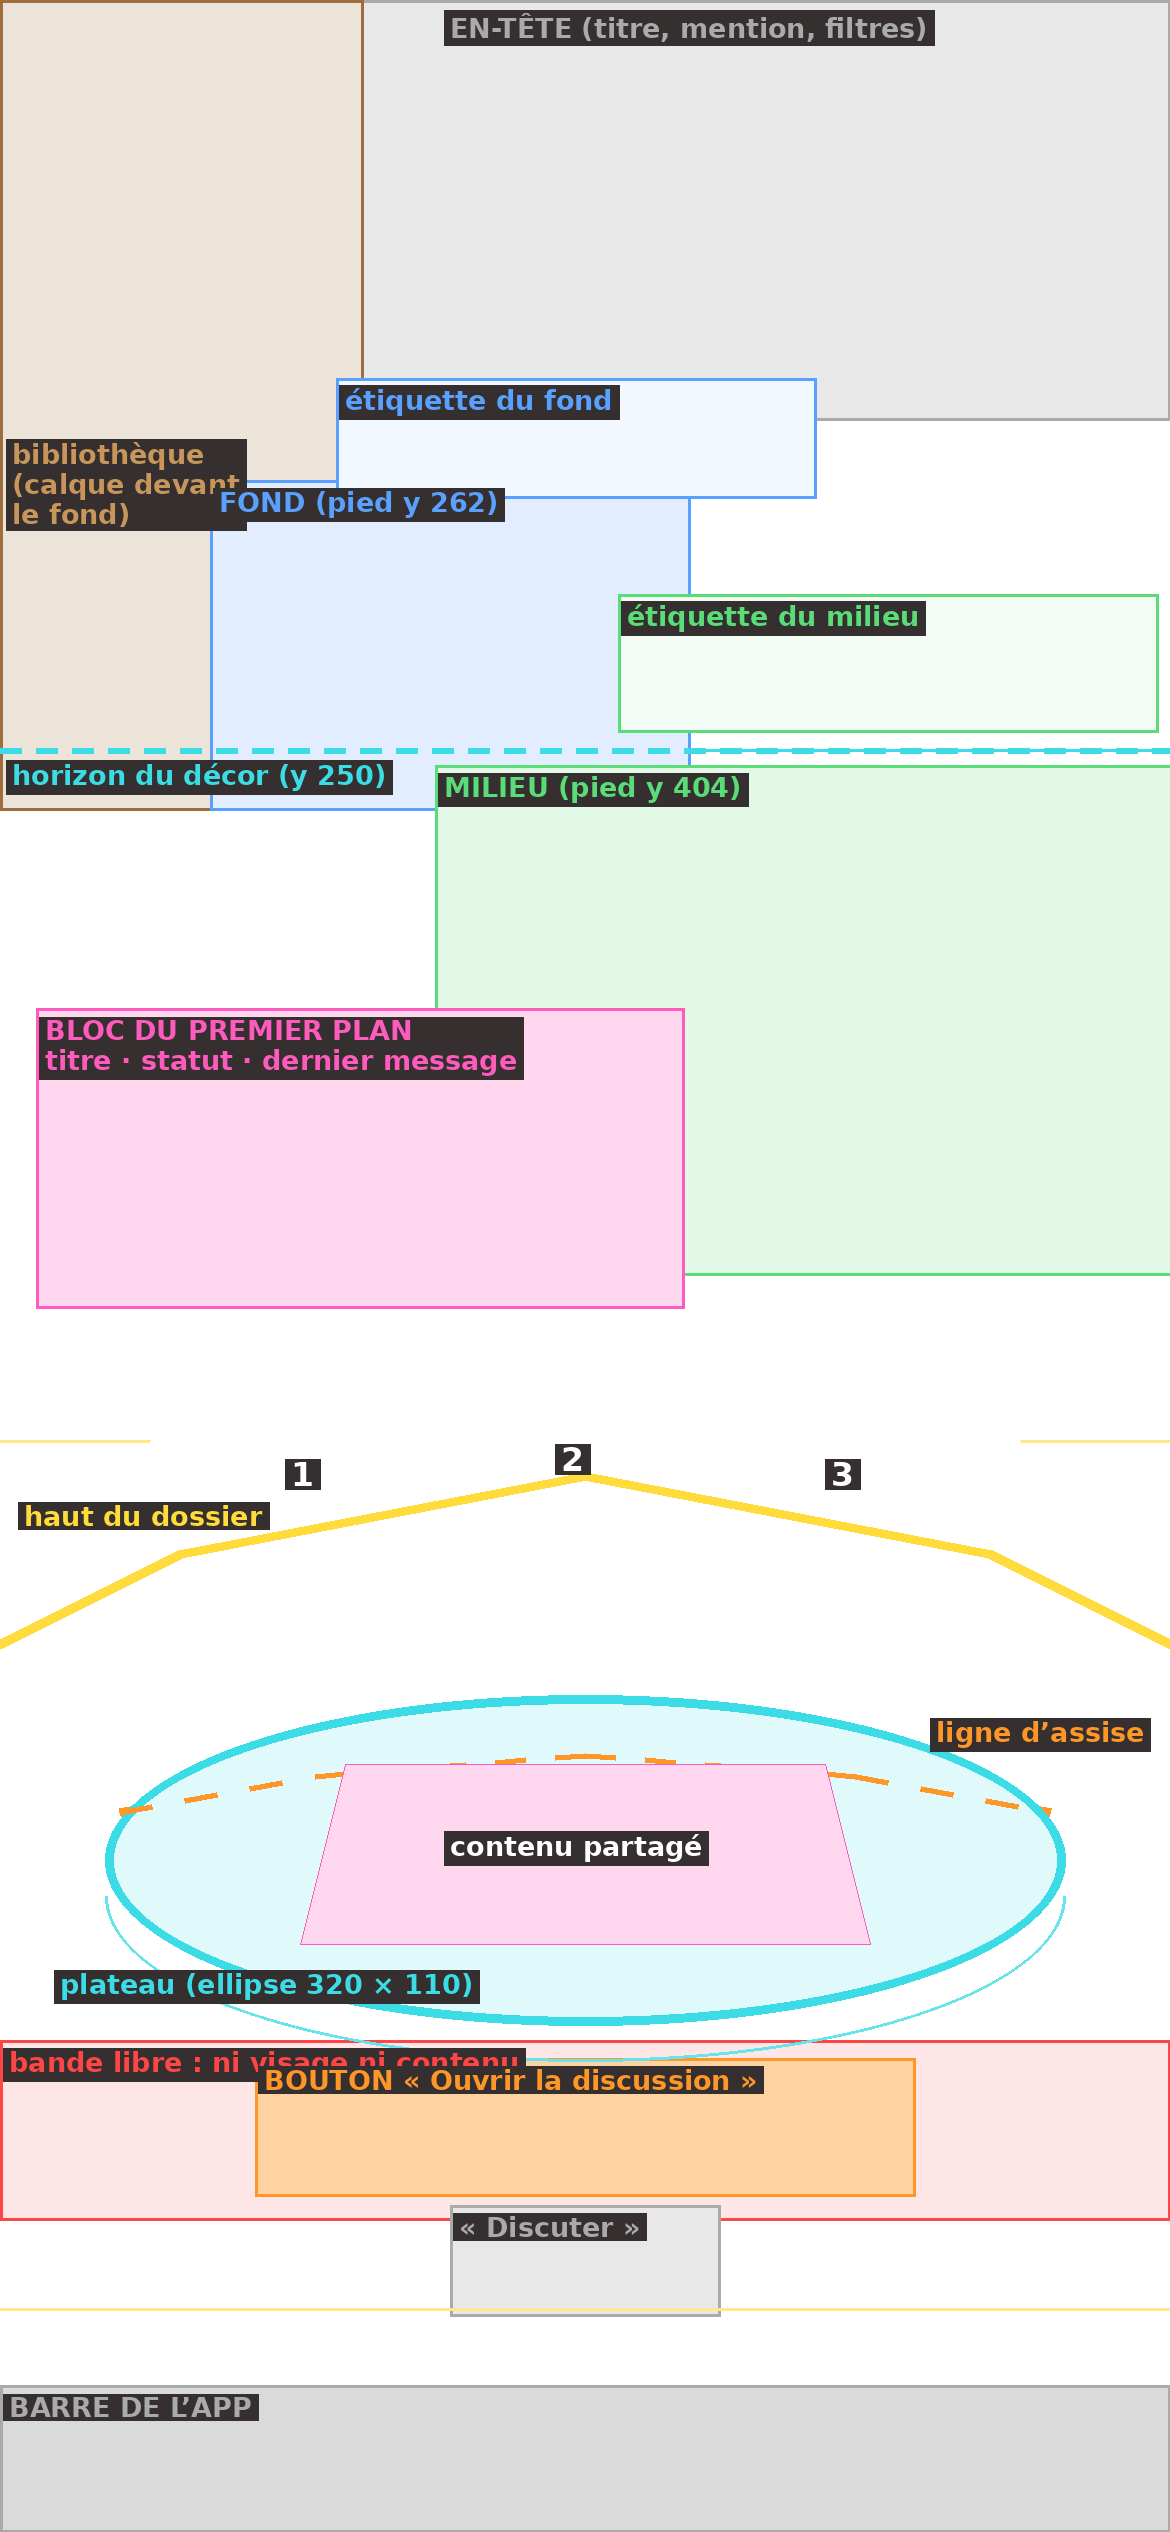
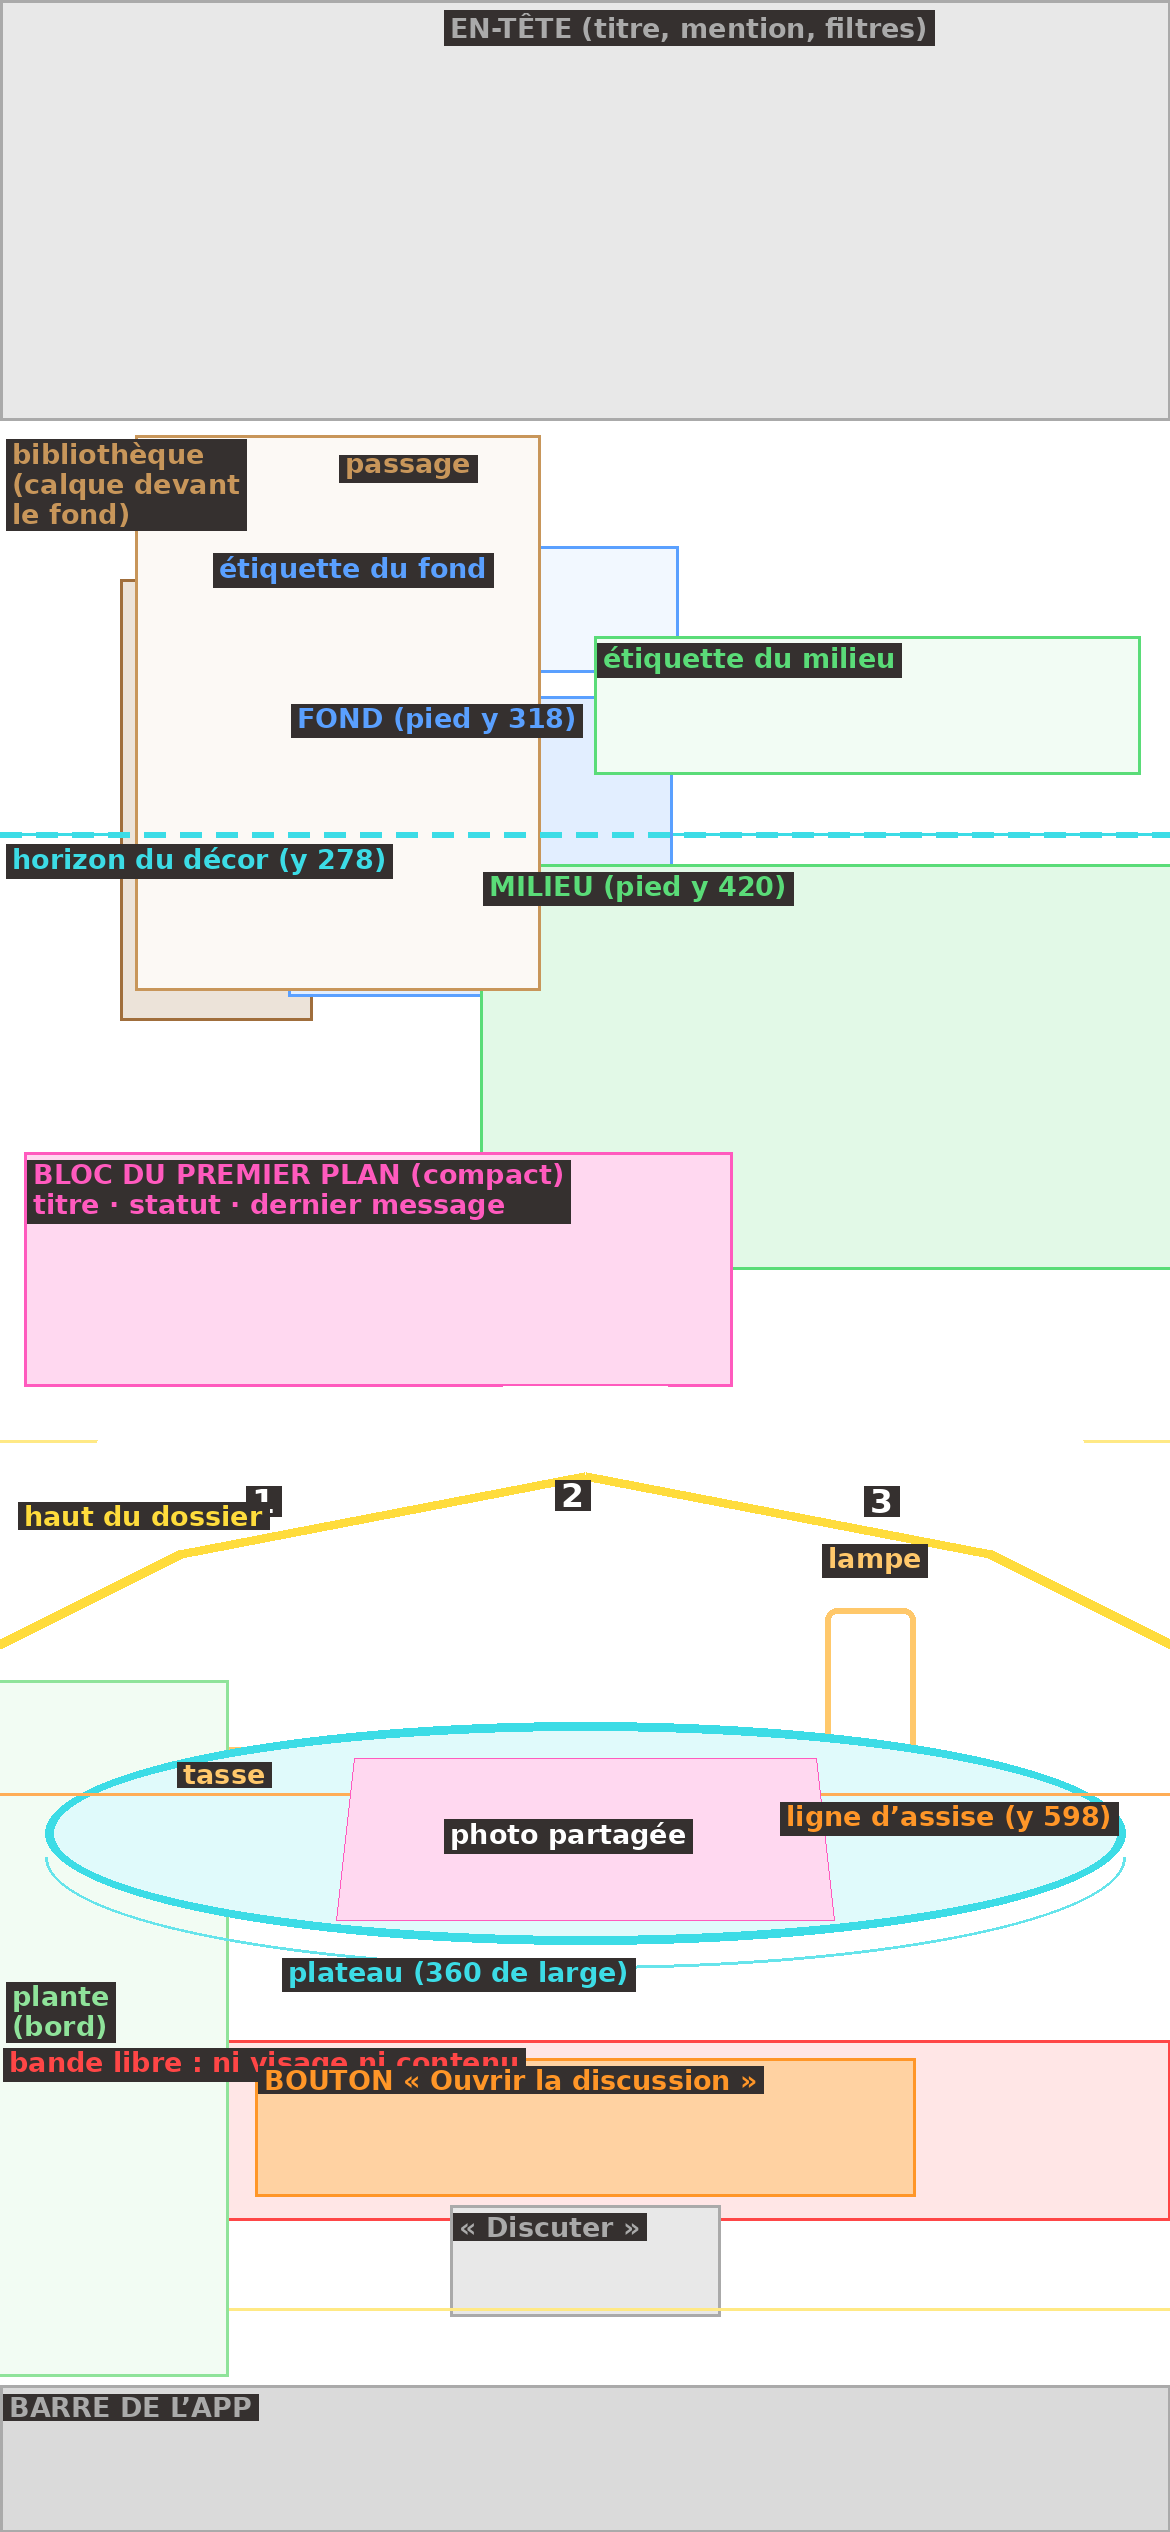
Ensemble : gabarit révisé sur la vue fixe complète
Bibliothèque allégée devant le passage vers la seconde pièce, groupes du
fond et du milieu recalés, étiquettes rattachées à leur table, bloc du
premier plan compact au-dessus du dossier, table de 360 points, ligne
d'assise, et emplacements des accessoires (lampe, deux tasses) relatifs à
la table pour la suivre au défilement, plante fixe au bord gauche. La fiche
précise les images d'accessoires à préparer. Aucun changement du
défilement.

Claude-Session: https://claude.ai/code/session_01C9atY36YJveCS87MrysGbG

diff --git a/docs/ensemble/dessiner-gabarit.py b/docs/ensemble/dessiner-gabarit.py
@@ -32,14 +32,14 @@ def dessiner(k, fond=None):
     boite(Z['barre'], GRIS, 'BARRE DE L’APP', 110)
     D = G['decor']
     d.line([(0, D['ligne_d_horizon_y'] * k), (W, D['ligne_d_horizon_y'] * k)], fill=CYAN + (255,), width=max(1, k))
-    T((4 * k, (D['ligne_d_horizon_y'] + 3) * k), 'horizon du décor (y 250)', CYAN + (255,))
+    T((4 * k, (D['ligne_d_horizon_y'] + 3) * k), f"horizon du décor (y {D['ligne_d_horizon_y']})", CYAN + (255,))
     boite(D['bibliotheque'], (160,110,60), '', 50); T((4 * k, 146 * k), 'bibliothèque\n(calque devant\nle fond)', (200,150,90,255))
-    boite(G['fond']['groupe'], BLEU, 'FOND (pied y 262)', 45)
+    boite(G['fond']['groupe'], BLEU, 'FOND (pied y 318)', 45)
     boite(G['fond']['etiquette'], BLEU, 'étiquette du fond', 20)
-    boite(G['milieu']['groupe'], VERT, 'MILIEU (pied y 404)', 45)
+    boite(G['milieu']['groupe'], VERT, 'MILIEU (pied y 420)', 45)
     boite(G['milieu']['etiquette'], VERT, 'étiquette du milieu', 20)
     A = G['premier_plan']
-    boite(A['etiquette'], ROSE, 'BLOC DU PREMIER PLAN\ntitre · statut · dernier message', 60)
+    boite(A['etiquette'], ROSE, 'BLOC DU PREMIER PLAN (compact)\ntitre · statut · dernier message', 60)
     b = A['banquette']
     bx = b['boite']; d.rectangle([bx['x'] * k, bx['y'] * k, (bx['x'] + bx['l']) * k, (bx['y'] + bx['h']) * k], outline=JAUNE + (160,), width=max(1, k))
     for i, g in enumerate(A['fantomes']):
@@ -48,21 +48,22 @@ def dessiner(k, fond=None):
         T(((g['centre_x'] - 8) * k, (g['haut'] + 30) * k), str(i + 1), (255,255,255,255), fg)
     d.line(P(b['haut_du_dossier']), fill=JAUNE + (255,), width=3 * k)
     T((8 * k, 500 * k), 'haut du dossier', JAUNE + (255,))
-    d.line(P(b['ligne_d_assise']), fill=ORANGE + (255,), width=3 * k)
-    T((312 * k, 572 * k), 'ligne d’assise', ORANGE + (255,))
+    T((262 * k, 600 * k), 'ligne d’assise (y 598)', ORANGE + (255,))
     t = A['table']['plateau']; cx, cy = t['centre']; rx, ry = t['rayon_x'], t['rayon_y']
+    tb = A['table']['boite']
+    for acc in [A['accessoires']['lampe']] + A['accessoires']['tasses']:
+        ax, ay = tb['x'] + acc['u'] * tb['l'], tb['y'] + acc['v'] * tb['h']
+        d.rounded_rectangle([(ax - acc['l'] / 2) * k, (ay - acc['h']) * k, (ax + acc['l'] / 2) * k, ay * k], radius=4 * k, outline=(255, 200, 107, 255), width=2 * k)
+    T(((tb['x'] + A['accessoires']['lampe']['u'] * tb['l'] - 14) * k, (tb['y'] - 60) * k), 'lampe', (255, 200, 107, 255))
+    T(((tb['x'] + 0.167 * tb['l'] - 14) * k, (tb['y'] + 12) * k), 'tasse', (255, 200, 107, 255))
+    pl = G['plante_premier_plan']; boite(pl, (143, 227, 154), '', 30); T(((pl['x'] + 14) * k, (pl['y'] + 100) * k), 'plante\n(bord)', (143, 227, 154, 255))
+    boite(D['passage'], (200, 150, 90), '', 15); T(((D['passage']['x'] + 70) * k, (D['passage']['y'] + 4) * k), 'passage', (200, 150, 90, 255))
     d.ellipse([(cx - rx) * k, (cy - ry) * k, (cx + rx) * k, (cy + ry) * k], outline=CYAN + (255,), width=3 * k, fill=CYAN + (40,))
     d.arc([(cx - rx) * k, (cy - ry + A['table']['chant']) * k, (cx + rx) * k, (cy + ry + A['table']['chant']) * k], 0, 180, fill=CYAN + (200,), width=max(1, k))
-    # La ligne d'assise passe derrière le plateau : on la redessine en pointillés par-dessus.
-    pts = P(b['ligne_d_assise'])
-    for (x0, y0), (x1, y1) in zip(pts, pts[1:]):
-        n = max(1, int(((x1 - x0) ** 2 + (y1 - y0) ** 2) ** 0.5 // (10 * k)))
-        for j in range(0, n, 2):
-            a0, a1 = j / n, min(1, (j + 1) / n)
-            d.line([(x0 + (x1 - x0) * a0, y0 + (y1 - y0) * a0), (x0 + (x1 - x0) * a1, y0 + (y1 - y0) * a1)], fill=ORANGE + (255,), width=2 * k)
+    d.line([(0, 598 * k), (W, 598 * k)], fill=ORANGE + (200,), width=max(1, k))
     d.polygon(P(A['contenu_partage']['quad']), outline=ROSE + (255,), fill=ROSE + (60,))
-    T((150 * k, 610 * k), 'contenu partagé', (255,255,255,255))
-    T((20 * k, 656 * k), 'plateau (ellipse 320 × 110)', CYAN + (255,))
+    T((150 * k, 606 * k), 'photo partagée', (255,255,255,255))
+    T((96 * k, 652 * k), 'plateau (360 de large)', CYAN + (255,))
     for xx in range(0, W, 12 * k):
         d.line([(xx, D['ligne_d_horizon_y'] * k), (xx + 7 * k, D['ligne_d_horizon_y'] * k)], fill=CYAN + (255,), width=2 * k)
     for (x, y), t, c, fo in textes:

diff --git a/docs/ensemble/gabarit-premier-plan.md b/docs/ensemble/gabarit-premier-plan.md
@@ -62,12 +62,30 @@ l'image : les ombres sont posées à l'assemblage.
    x 990–1170 px, de y 420 à 1440 px, sans entrer dans les zones des
    groupes. Peu de sol libre au centre. La bibliothèque reste un calque à
    part, à gauche.
-4. Ensuite : plante de premier plan (bas gauche), fauteuil vu de dos (bas
-   droite), objets de table (tasses, bougie, petite lampe) — même caméra
-   que la table.
+4. Ensuite, peu d'accessoires (emplacements dans le gabarit, relatifs à la
+   table du premier plan — ils la suivent au défilement) :
+   - **une petite lampe chaude** (laiton, abat-jour champignon), environ
+     30 × 56 points à l'écran (90 × 168 px à 3×), posée sur le plateau à
+     droite, à hauteur du corps des fantômes, jamais devant un visage ;
+   - **deux tasses** (avec soucoupe), environ 34 × 24 points (100 × 72 px à 3×) ;
+   - **une plante** de premier plan, au bord gauche, environ 86 × 232
+     points (260 × 700 px à 3×), fixe dans le cadre, hors du bouton et de
+     la barre.
+   Même caméra que la table reçue (plateau environ 5 fois plus large que
+   haut), PNG transparents, lumière chaude venant de la gauche.
 
 Les fantômes actuels (de face, à hauteur d'œil) conviennent : ils sont
 posés sur la ligne d'assise, le bas caché par le plateau.
+
+## Vue fixe validée (révision 2)
+
+- La bibliothèque est allégée (64 points de large) et posée devant le bord
+  gauche du passage vers la seconde pièce ; derrière elle, le passage reste
+  libre pour la disparition des tables pendant le défilement.
+- Chaque étiquette est au-dessus de sa table, avec une pointe vers elle ;
+  le bloc du premier plan est compact et posé juste au-dessus du dossier.
+- Premier plan figé : banquette, table (360 points de large), fantômes
+  assis (ligne y 598, bas caché par le plateau), photo partagée à cette taille.
 
 ## Assemblage, à réception
 
